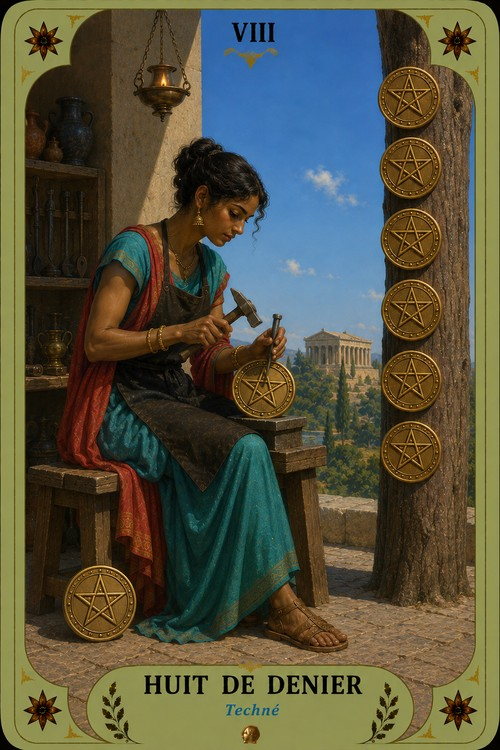
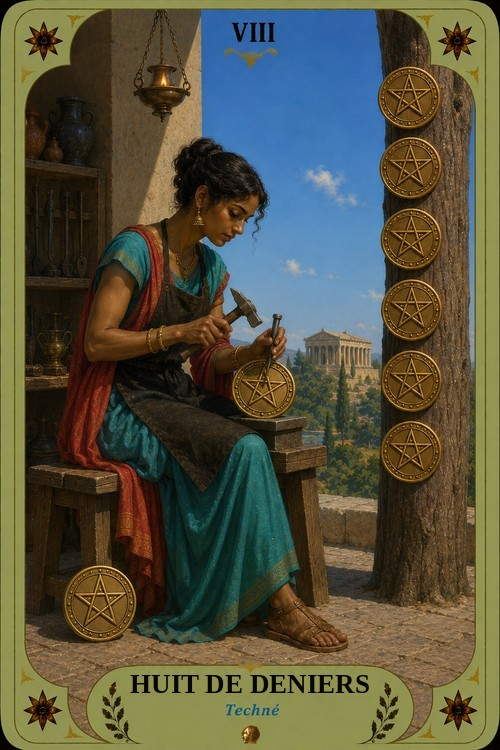
Corrige la coquille "DENIER" (sans S) sur les 14 illustrations de Deniers
Retour direct d'utilisatrice : le bandeau de titre de chaque carte de
Deniers (As à 10, Valet, Cavalier, Reine, Roi) portait "DENIER" au
singulier au lieu de "DENIERS" — coquille introduite dans les images
elles-mêmes lors de leur génération, présente sur les 14 illustrations
sans exception.

Corrigé directement sur chaque image plutôt que par une régénération
complète : détection automatique (par analyse de pixels) de la zone de
texte du bandeau et des bornes du médaillon décoratif de chaque côté,
effacement du texte existant en reconstituant l'arrière-plan du
bandeau (échantillonné ligne par ligne pour respecter le dégradé
local), puis réécriture du texte complet et correct ("X DE DENIERS")
dans une police serif grasse proche de l'originale, à la couleur et à
la taille ajustées automatiquement pour rester centré et tenir dans
l'espace disponible entre les deux médaillons dorés.

Aucun changement de nom de fichier, de CARD_IMAGES ni d'aucune autre
donnée dans app.js — uniquement les 14 fichiers image sont modifiés.

Claude-Session: https://claude.ai/code/session_01U3aLcH1JucbLstxQ1Hhqve

Changed region(s): [[0.24, 0.8893, 0.75, 0.9507]]

diff --git a/service-worker.js b/service-worker.js
@@ -1,4 +1,4 @@
-const CACHE="delphes-v95";
+const CACHE="delphes-v96";
 const ASSETS=["./","./index.html","./styles.css","./app.js","./manifest.json","./icon.svg","./politique-confidentialite.html"];
 
 self.addEventListener("install",event=>{

diff --git a/README.md b/README.md
@@ -6,7 +6,7 @@ Application web (PWA) de tarot mythologique grec — tirage interactif, lecture 
 - `index.html` — structure de la page
 - `styles.css` — tous les styles (police Cinzel/EB Garamond, thème "divinatoire", animation de chargement en étoiles)
 - `app.js` — toute la logique (données des cartes, symboles, tirage, navigation, appel au backend IA)
-- `assets/` — illustrations des 22 arcanes majeurs (Le Mat, Bateleur, Papesse, Impératrice, Empereur, Pape, Amoureux, Chariot, Justice, Hermite, Roue de Fortune, Force, Pendu, Arcane sans nom, Tempérance, Diable, Maison-Dieu, Étoile, Lune, Soleil, Jugement, Monde) — collection complète. Les 56 cartes mineures sont désormais toutes illustrées elles aussi : Épées, Bâtons et Coupes de longue date (10 numérales + 4 figures de cour chacun, `card-epees-*.jpg`, `card-batons-*.jpg` et `card-coupes-*.jpg`), et Deniers en dernier (`card-deniers-*.jpg`, fournies par l'utilisatrice en 3 lots successifs — As à 5, puis 6 à 9 et le Valet, puis le 10 et les 3 dernières figures de cour Cavalier/Reine/Roi). **Les 78 cartes du jeu sont donc désormais toutes illustrées.** 5 illustrations (`learn-*.jpg`, 500×500) pour les cases de l'onglet Apprendre — `learn-symboles.jpg`, fournie par l'utilisatrice, complète la « Bibliothèque symbolique » qui n'en avait aucune jusque-là (retour direct : « mets cette illustration, au même format que les autres ») — et 4 illustrations (`suit-*.jpg`) pour les 4 enseignes dans les sous-sections « Figures de cour » et « Cartes numérales ». `reves-hero.jpg` (700×1050) illustre l'onglet Rêves (voir « Rêves — comment ça marche »).
+- `assets/` — illustrations des 22 arcanes majeurs (Le Mat, Bateleur, Papesse, Impératrice, Empereur, Pape, Amoureux, Chariot, Justice, Hermite, Roue de Fortune, Force, Pendu, Arcane sans nom, Tempérance, Diable, Maison-Dieu, Étoile, Lune, Soleil, Jugement, Monde) — collection complète. Les 56 cartes mineures sont désormais toutes illustrées elles aussi : Épées, Bâtons et Coupes de longue date (10 numérales + 4 figures de cour chacun, `card-epees-*.jpg`, `card-batons-*.jpg` et `card-coupes-*.jpg`), et Deniers en dernier (`card-deniers-*.jpg`, fournies par l'utilisatrice en 3 lots successifs — As à 5, puis 6 à 9 et le Valet, puis le 10 et les 3 dernières figures de cour Cavalier/Reine/Roi). **Les 78 cartes du jeu sont donc désormais toutes illustrées.** Les 14 illustrations de Deniers portaient toutes la même coquille sur leur bandeau de titre (« DENIER » sans le S final, ex. « AS DE DENIER ») — retour direct d'utilisatrice : corrigée directement sur chaque image (texte effacé puis redessiné en place, même police/couleur/mise en page, sans tout régénérer), sans aucun changement de nom de fichier ni de code. 5 illustrations (`learn-*.jpg`, 500×500) pour les cases de l'onglet Apprendre — `learn-symboles.jpg`, fournie par l'utilisatrice, complète la « Bibliothèque symbolique » qui n'en avait aucune jusque-là (retour direct : « mets cette illustration, au même format que les autres ») — et 4 illustrations (`suit-*.jpg`) pour les 4 enseignes dans les sous-sections « Figures de cour » et « Cartes numérales ». `reves-hero.jpg` (700×1050) illustre l'onglet Rêves (voir « Rêves — comment ça marche »).
 - `manifest.json` + `icon.svg` — nécessaires pour l'installation en PWA
 - `service-worker.js` — cache offline
 - `politique-confidentialite.html` — page statique et autonome (pas de dépendance à `app.js`/`styles.css`, pour rester consultable même si le reste de l'appli change) requise avant toute publication sur l'App Store/Play Store — voir « Politique de confidentialité » plus bas
